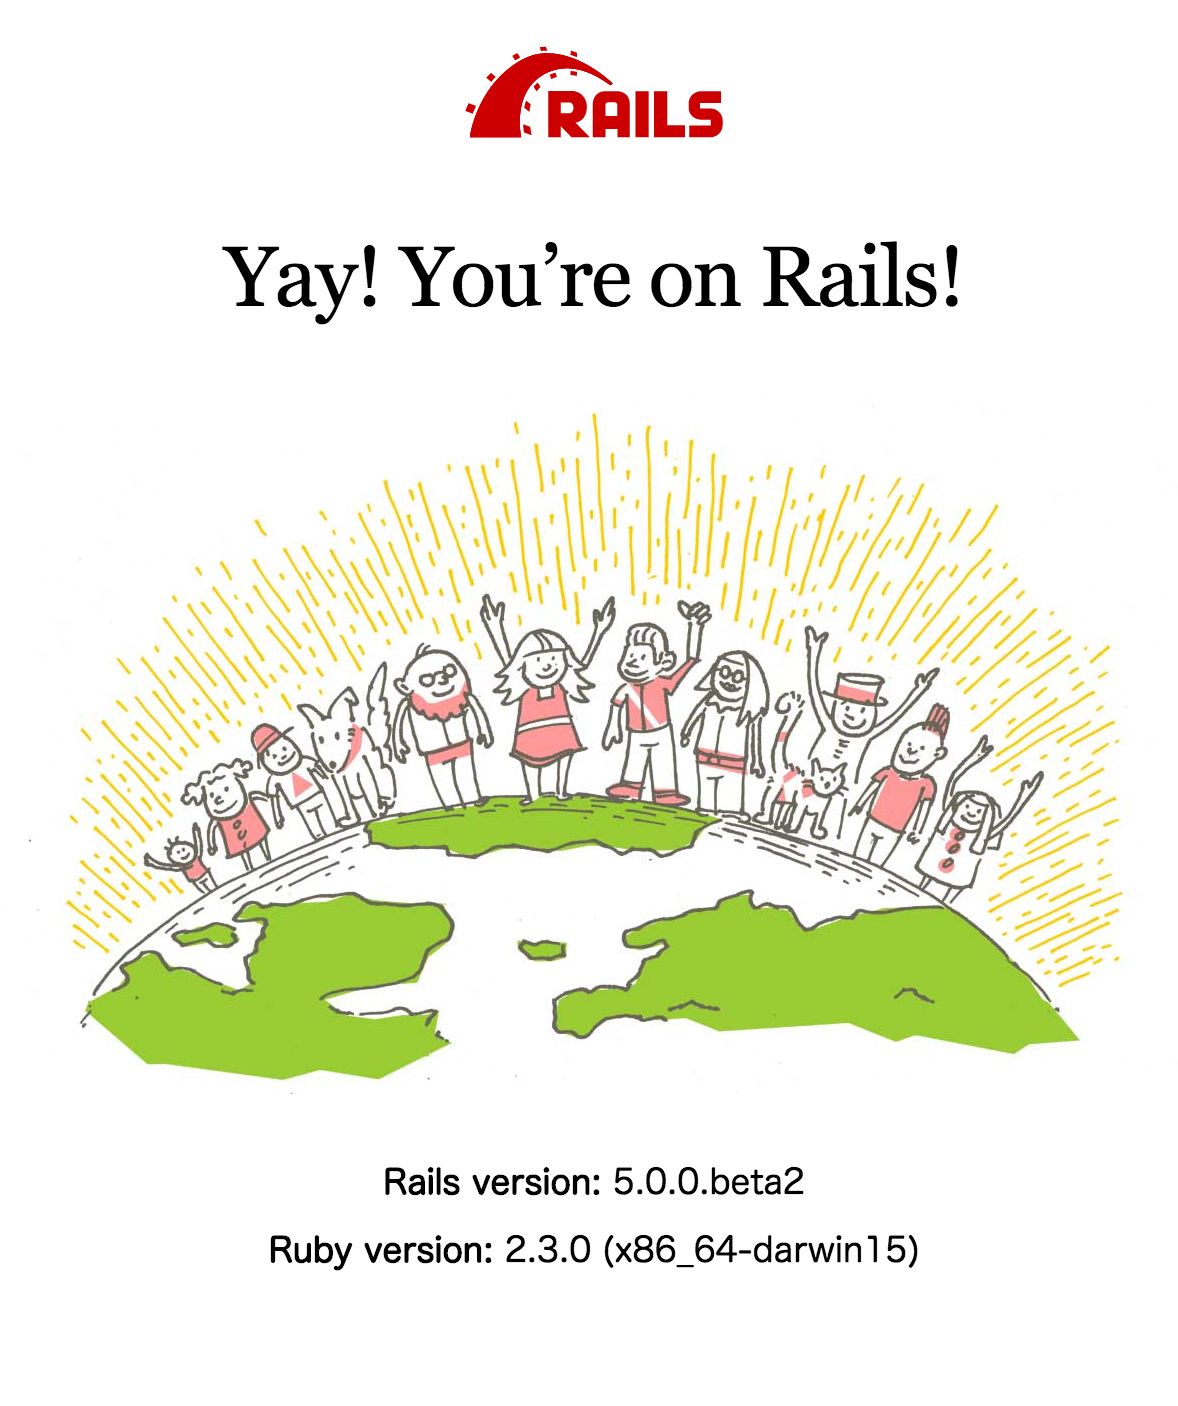
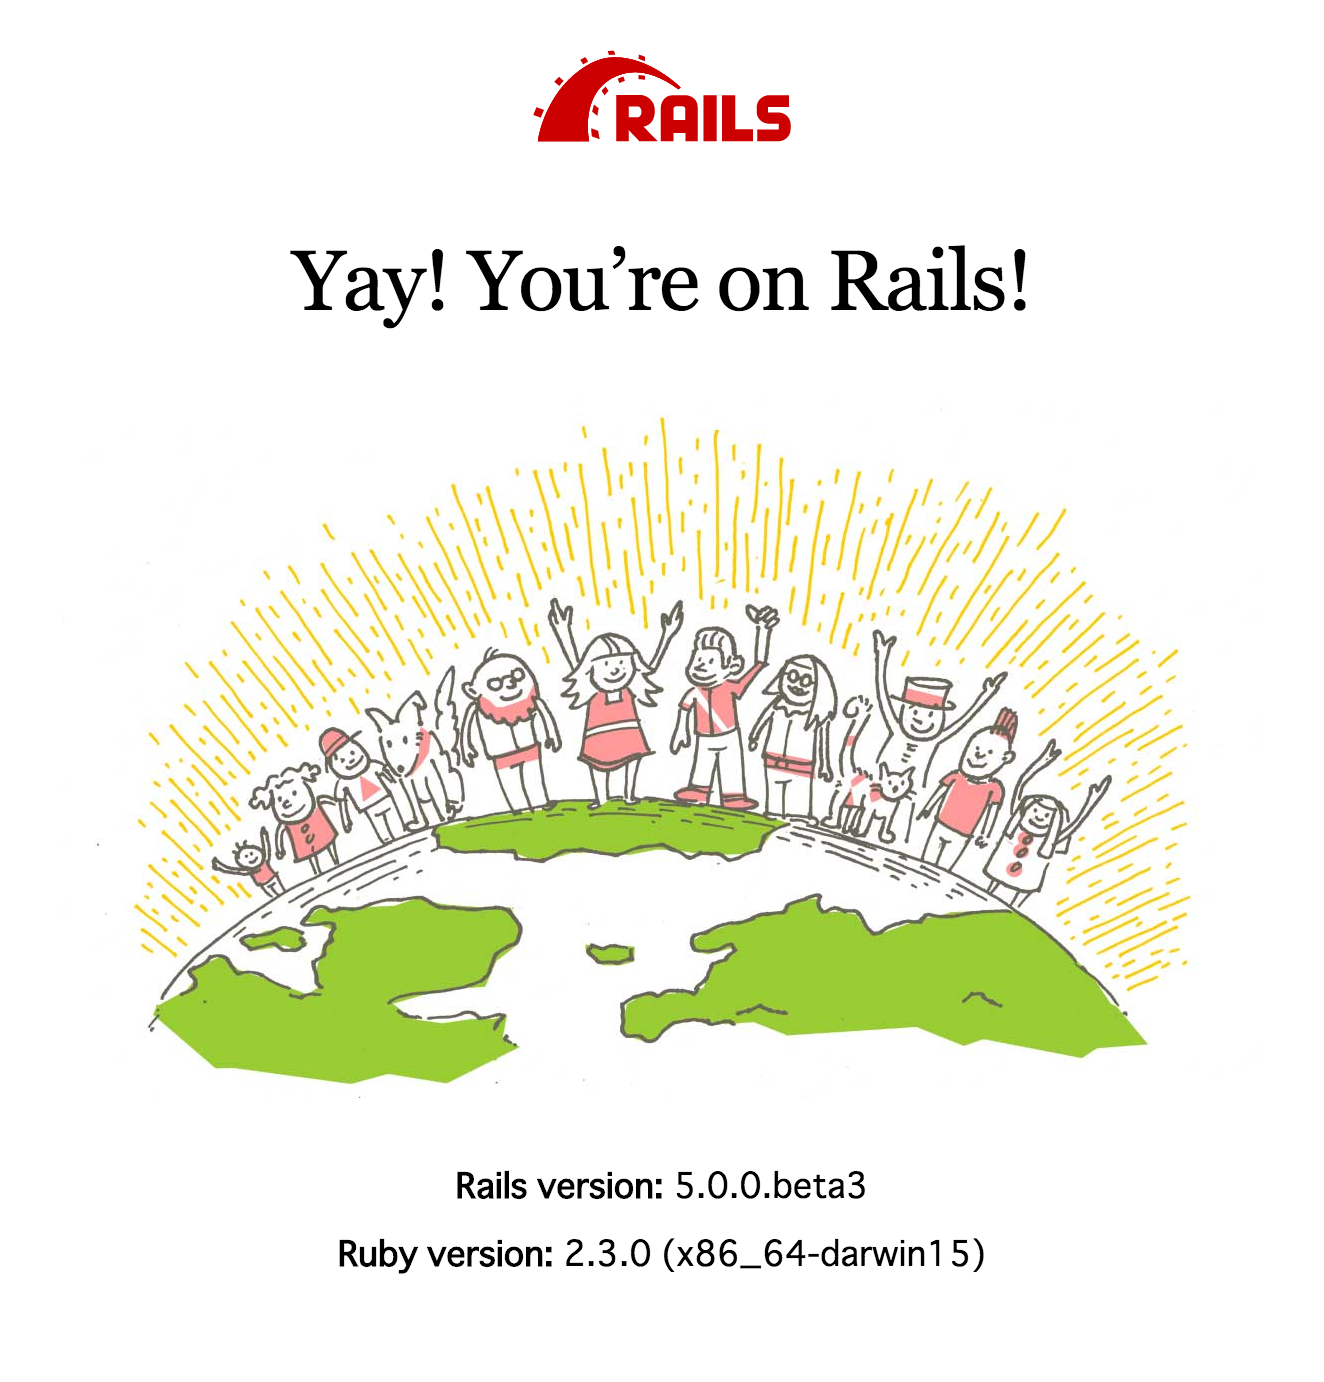
Update Rails500beta3

diff --git a/_posts/2014-05-01-my-first-web-app.md b/_posts/2014-05-01-my-first-web-app.md
@@ -62,20 +62,22 @@ rails s
 ```console
 $ rails s
 => Booting Puma
-=> Rails 5.0.0.beta2 application starting in development on http://localhost:3000
+=> Rails 5.0.0.beta3 application starting in development on http://localhost:3000
 => Run `rails server -h` for more startup options
 => Ctrl-C to shutdown server
-Puma 2.16.0 starting...
-* Min threads: 0, max threads: 16
+Puma starting in single mode...
+* Version 3.2.0 (ruby 2.3.0-p0), codename: Spring Is A Heliocentric Viewpoint
+* Min threads: 5, max threads: 5
 * Environment: development
 * Listening on tcp://localhost:3000
+Use Ctrl-C to stop
 ```
 
 では、ブラウザを起動して以下のURLを入力してアクセスしてみましょう（Railsのバージョンにより以下のどちらかが表示されます）。
 
 * localhost:3000
 
-![welcome rails(Rails5.0.0beta2以降)](assets/my-first-web-app/welcome_rails.png)
+![welcome rails(Rails5.0.0beta3以降)](assets/my-first-web-app/welcome_rails.png)
 
 ![welcome rails(Rails4.2まで)](assets/my-first-web-app/welcome_rails_42.png)
 
@@ -97,24 +99,26 @@ rails s
 $ rails g scaffold entry title description:text picture
 Running via Spring preloader in process 79311
       invoke  active_record
-      create    db/migrate/20160223234829_create_entries.rb
+      create    db/migrate/20160321073712_create_entries.rb
 ...(略)
 
 $ rails db:migrate
-== 20160223234829 CreateEntries: migrating ====================================
+== 20160321073712 CreateEntries: migrating ====================================
 -- create_table(:entries)
-   -> 0.0010s
-== 20160223234829 CreateEntries: migrated (0.0011s) ===========================
+   -> 0.0011s
+== 20160321073712 CreateEntries: migrated (0.0011s) ===========================
 
 $ rails s
 => Booting Puma
-=> Rails 5.0.0.beta2 application starting in development on http://localhost:3000
+=> Rails 5.0.0.beta3 application starting in development on http://localhost:3000
 => Run `rails server -h` for more startup options
 => Ctrl-C to shutdown server
-Puma 2.16.0 starting...
-* Min threads: 0, max threads: 16
+Puma starting in single mode...
+* Version 3.2.0 (ruby 2.3.0-p0), codename: Spring Is A Heliocentric Viewpoint
+* Min threads: 5, max threads: 5
 * Environment: development
 * Listening on tcp://localhost:3000
+Use Ctrl-C to stop
 ```
 
 ここでまたブラウザを使い、以下のURLを表示させます。
@@ -153,10 +157,10 @@ Fetching gem metadata from https://rubygems.org/...........
 Fetching version metadata from https://rubygems.org/...
 Fetching dependency metadata from https://rubygems.org/..
 Resolving dependencies...
-Using rake 10.5.9
+Using rake 11.1.1
 ...
 Installing carrierwave 0.10.0
-Bundle complete! 15 Gemfile dependencies, 59 gems now installed.
+Bundle complete! 16 Gemfile dependencies, 64 gems now installed.
 Use `bundle show [gemname]` to see where a bundled gem is installed.
 $ rails g uploader Picture
 Running via Spring preloader in process 80021
@@ -172,7 +176,7 @@ class Entry < ApplicationRecord
 の直後に、以下を追加します。
 
 ```ruby
-mount_uploader :picture, PictureUploader
+  mount_uploader :picture, PictureUploader
 ```
 
 さらに、`app/views/entries/_form.html.erb`を以下のように編集します（- 記号の行を削除して、かわりに + 記号の行を追加してください）。
@@ -198,13 +202,15 @@ rails s
 ```console
 $ rails s
 => Booting Puma
-=> Rails 5.0.0.beta2 application starting in development on http://localhost:3000
+=> Rails 5.0.0.beta3 application starting in development on http://localhost:3000
 => Run `rails server -h` for more startup options
 => Ctrl-C to shutdown server
-Puma 2.16.0 starting...
-* Min threads: 0, max threads: 16
+Puma starting in single mode...
+* Version 3.2.0 (ruby 2.3.0-p0), codename: Spring Is A Heliocentric Viewpoint
+* Min threads: 5, max threads: 5
 * Environment: development
 * Listening on tcp://localhost:3000
+Use Ctrl-C to stop
 ```
 
 New Entryリンクをクリックすると、「ファイルを選択」ボタンが増えているかと思います。ボタンを押して画像ファイルを選び、アップロードしてみましょう。

diff --git a/_posts/2014-06-01-smallest-app.md b/_posts/2014-06-01-smallest-app.md
@@ -46,14 +46,15 @@ rails s
 ```console
 $ rails s
 => Booting Puma
-=> Rails 5.0.0.beta1 application starting in development on http://localhost:3000
+=> Rails 5.0.0.beta3 application starting in development on http://localhost:3000
 => Run `rails server -h` for more startup options
 => Ctrl-C to shutdown server
-I, [2015-12-27T16:12:41.951554 #82200]  INFO -- : Celluloid 0.17.2 is running in BACKPORTED mode. [ http://git.io/vJf3J ]
-Puma 2.15.3 starting...
-* Min threads: 0, max threads: 16
+Puma starting in single mode...
+* Version 3.2.0 (ruby 2.3.0-p0), codename: Spring Is A Heliocentric Viewpoint
+* Min threads: 5, max threads: 5
 * Environment: development
 * Listening on tcp://localhost:3000
+Use Ctrl-C to stop
 ```
 
 ブラウザを起動して以下のURLを入力してアクセスしてみます。
@@ -103,14 +104,15 @@ rails s
 ```console
 $ rails s
 => Booting Puma
-=> Rails 5.0.0.beta1 application starting in development on http://localhost:3000
+=> Rails 5.0.0.beta3 application starting in development on http://localhost:3000
 => Run `rails server -h` for more startup options
 => Ctrl-C to shutdown server
-I, [2015-12-27T16:15:34.755524 #82318]  INFO -- : Celluloid 0.17.2 is running in BACKPORTED mode. [ http://git.io/vJf3J ]
-Puma 2.15.3 starting...
-* Min threads: 0, max threads: 16
+Puma starting in single mode...
+* Version 3.2.0 (ruby 2.3.0-p0), codename: Spring Is A Heliocentric Viewpoint
+* Min threads: 5, max threads: 5
 * Environment: development
 * Listening on tcp://localhost:3000
+Use Ctrl-C to stop
 ```
 
 ブラウザを使い、以下のURLへアクセスします。
@@ -129,15 +131,17 @@ Puma 2.15.3 starting...
 <p>Find me in app/views/hello/index.html.erb</p>
 ```
 
-これを以下のように変更して、ブラウザで同じURLへアクセスしてみてください（rails sは起動したままで大丈夫です。もしもrails sを一度終了していた場合は、rails sコマンドでもう一度起動してからアクセスしてください）。
+これを以下のように変更して、ブラウザで同じURLへアクセスしてみてください。-の行を削除して、+の行を追加してください。先頭の-や+は入力しません。（rails sは起動したままで大丈夫です。もしもrails sを一度終了していた場合は、rails sコマンドでもう一度起動してからアクセスしてください）。
 
-```erb
-<p>Hello world!</p>
+```diff
+- <h1>Hello#index</h1>
+- <p>Find me in app/views/hello/index.html.erb</p>
++ <p>Hello world!</p>
 ```
 
 ![Hello world](assets/smallest-app/helloworld.png)
 
-"Hello world!"の文字が表示されましたか？これで一番小さなRailsアプリができあがりました。ここへ、少しだけRubyのコードを書いて、現在時刻を表示する機能を追加してみましょう。
+"Hello world!"の文字が表示されましたか？これで一番小さなRailsアプリができあがりました。ここへ、少しだけRubyのコードを書いて、現在時刻を表示する機能を追加してみましょう。以下のように、+の行を追加してください。
 
 ```diff
 <p>Hello world!</p>

diff --git a/_posts/2014-04-01-preface.md b/_posts/2014-04-01-preface.md
@@ -92,16 +92,16 @@ $ rails s
 ### ターミナルの実行結果の書式例
 
 ```console
-$ rails s
 => Booting Puma
-=> Rails 5.0.0.beta1 application starting in development on http://localhost:3000
+=> Rails 5.0.0.beta3 application starting in development on http://localhost:3000
 => Run `rails server -h` for more startup options
 => Ctrl-C to shutdown server
-I, [2015-12-27T16:25:05.483473 #83326]  INFO -- : Celluloid 0.17.2 is running in BACKPORTED mode. [ http://git.io/vJf3J ]
-Puma 2.15.3 starting...
-* Min threads: 0, max threads: 16
+Puma starting in single mode...
+* Version 3.2.0 (ruby 2.3.0-p0), codename: Spring Is A Heliocentric Viewpoint
+* Min threads: 5, max threads: 5
 * Environment: development
 * Listening on tcp://localhost:3000
+Use Ctrl-C to stop
 ```
 
 ## サンプルコード
@@ -112,9 +112,9 @@ Puma 2.15.3 starting...
 
 ## 開発環境
 
-本書はRuby 2.3.0およびRails 5.0.0beta1[^1], Rails4.2で動作確認をしています。
+本書はRuby 2.3.0およびRails 5.0.0beta3[^1], Rails4.2で動作確認をしています。
 
-[^1]: 2016年2月現在、Rails5.0.0は正式リリース版がまだ出ていません。ベータリリース版（正式リリースへ向けての準備バージョン）であるRails 5.0.0.beta1が最新版です。正式リリース版が出る前にベータリリース版Rails5.0.0を使いたい場合は`gem install rails --pre`とインストールコマンドに`--pre`オプションを付けて実行します。また、本書の内容はRails 4.2でも同様に実行できますので、Rails 4.2をお使いいただいても大丈夫です。
+[^1]: 2016年3月20日現在、Rails5.0.0は正式リリース版がまだ出ていません。ベータリリース版（正式リリースへ向けての準備バージョン）であるRails 5.0.0.beta3が最新版です。正式リリース版が出る前にベータリリース版Rails5.0.0を使いたい場合は`gem install rails --pre`とインストールコマンドに`--pre`オプションを付けて実行します。また、本書の内容はRails 4.2でも同様に実行できますので、Rails 4.2をお使いいただいても大丈夫です。
 
 本書の内容を実行する場合にはRubyおよびRailsの開発環境を作る必要があります。開発環境として、3つの方法を書きました。どれか1つを選んで環境を作ってみましょう。簡単に開発を始めたい場合はクラウド開発環境をお勧めします。ローカルに開発環境を作る場合と比べて、トラブルなく開発をはじめることができます。
 

diff --git a/_posts/2014-07-01-crud.md b/_posts/2014-07-01-crud.md
@@ -31,7 +31,7 @@ rails new books_app
 $ rails new books_app
       create
 ... （略）
-Your bundle is complete!
+Bundle complete! 15 Gemfile dependencies, 63 gems now installed.
 Use `bundle show [gemname]` to see where a bundled gem is installed.
          run  bundle exec spring binstub --all
 * bin/rake: spring inserted
@@ -52,27 +52,28 @@ rails s
 $ rails g scaffold book title:string memo:text
 Running via Spring preloader in process 83236
       invoke  active_record
-      create    db/migrate/20151227072352_create_books.rb
+      create    db/migrate/20160321080841_create_books.rb
 ...
       invoke  css
       create    app/assets/stylesheets/scaffold.css
 $ rails db:migrate
 Running via Spring preloader in process 83289
-== 20151227072352 CreateBooks: migrating ======================================
+== 20160321080841 CreateBooks: migrating ======================================
 -- create_table(:books)
-   -> 0.0016s
-== 20151227072352 CreateBooks: migrated (0.0017s) =============================
+   -> 0.0014s
+== 20160321080841 CreateBooks: migrated (0.0014s) =============================
 
 $ rails s
 => Booting Puma
-=> Rails 5.0.0.beta1 application starting in development on http://localhost:3000
+=> Rails 5.0.0.beta3 application starting in development on http://localhost:3000
 => Run `rails server -h` for more startup options
 => Ctrl-C to shutdown server
-I, [2015-12-27T16:25:05.483473 #83326]  INFO -- : Celluloid 0.17.2 is running in BACKPORTED mode. [ http://git.io/vJf3J ]
-Puma 2.15.3 starting...
-* Min threads: 0, max threads: 16
+Puma starting in single mode...
+* Version 3.2.0 (ruby 2.3.0-p0), codename: Spring Is A Heliocentric Viewpoint
+* Min threads: 5, max threads: 5
 * Environment: development
 * Listening on tcp://localhost:3000
+Use Ctrl-C to stop
 ```
 
 [^1]: Rails4.2以前では `rails db:migrate` の替わりに `bin/rake db:migrate` と実行してください。

diff --git a/_posts/2016-01-11-gem.md b/_posts/2016-01-11-gem.md
@@ -75,7 +75,7 @@ source 'https://rubygems.org'
 
 
 # Bundle edge Rails instead: gem 'rails', github: 'rails/rails'
-gem 'rails', '>= 5.0.0.beta1', '< 5.1'
+gem 'rails', '>= 5.0.0.beta3', '< 5.1'
 # Use sqlite3 as the database for Active Record
 gem 'sqlite3'
 ...
@@ -83,8 +83,8 @@ gem 'sqlite3'
 
 Railsアプリは最初に作った状態ですでに10個以上のgemが登録されています。ここに、さきほどのawesome_print gemを追加してみましょう。書く場所はどこでも良いのですが、`gem 'rails'`の次の行に書いてみます。
 
-```ruby
-gem 'rails', '>= 5.0.0.beta1', '< 5.1'
+```diff
+gem 'rails', '>= 5.0.0.beta3', '< 5.1'
 + gem 'awesome_print'
 ```
 
@@ -92,10 +92,13 @@ gem 'rails', '>= 5.0.0.beta1', '< 5.1'
 
 ```console
 $ bundle
-Using rake 10.4.2
+Using rake 11.1.1
 ...
-Bundle complete! 13 Gemfile dependencies, 67 gems now installed.
+Bundle complete! 15 Gemfile dependencies, 63 gems now installed.
 Use `bundle show [gemname]` to see where a bundled gem is installed.
+         run  bundle exec spring binstub --all
+* bin/rake: spring inserted
+* bin/rails: spring inserted
 ```
 
 これでawesome_print gemを使う準備は完了です。試しにrails consoleを起動して、apメソッドを使ってみましょう。
